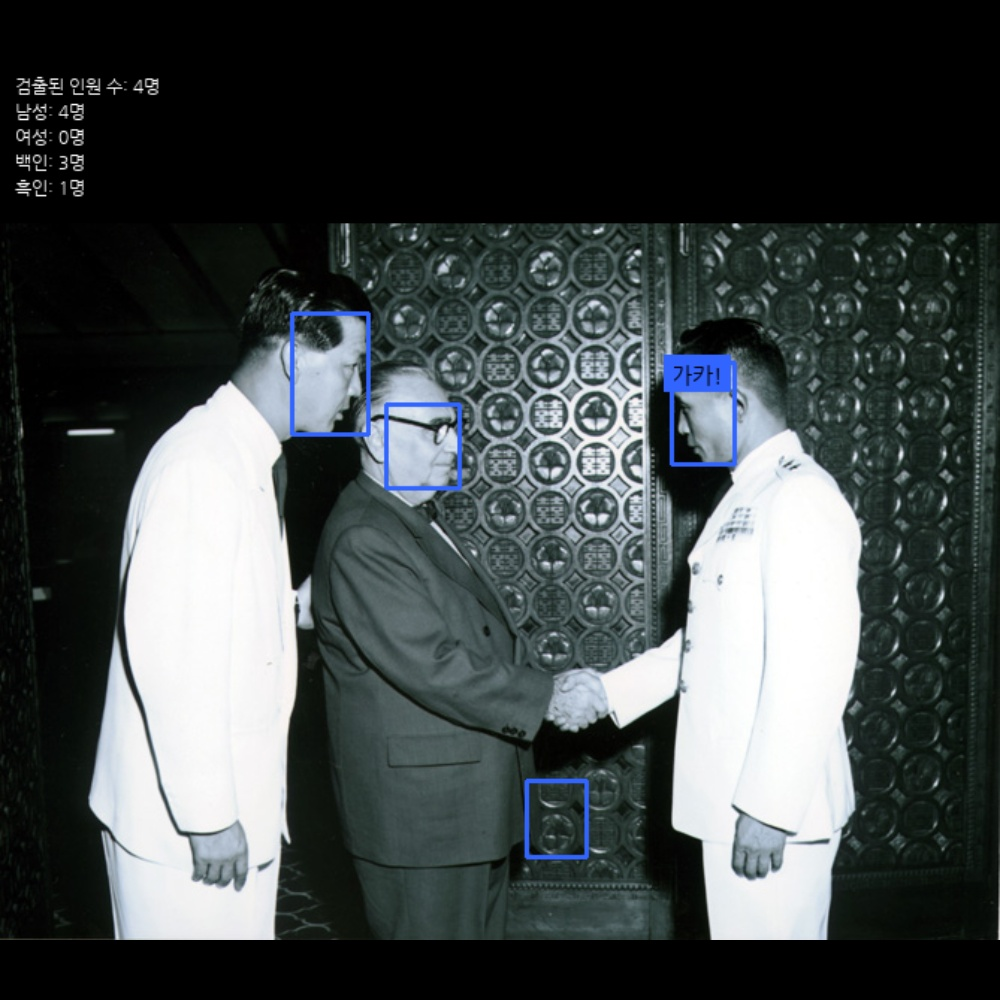
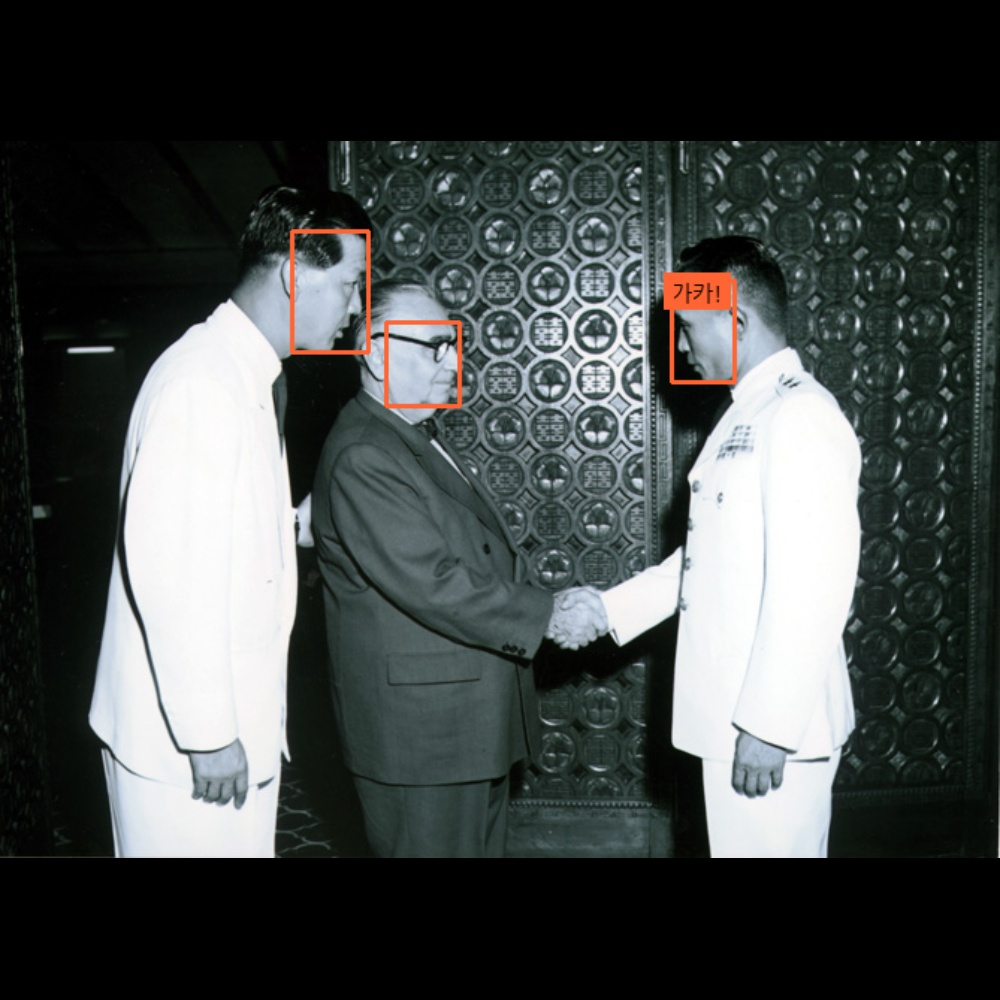
폰트사이즈 능동적

diff --git a/pybo/views/ai.py b/pybo/views/ai.py
@@ -29,6 +29,7 @@ def process_image(image_path, selected_detectors, selected_predictors):
             continue
         detectors.append(factories.FaceDetectorFactory.create(detector, config[f'{detector}']))
     
+    # 예측기(predictors) 생성
     predictors = []
     
     for predictor in selected_predictors:
@@ -39,17 +40,17 @@ def process_image(image_path, selected_detectors, selected_predictors):
         target_encodings = np.array(pickle.load(f))
 
     # 파이프라인 설정
-    pipeline = Pipeline(
-        steps.FaceDetector(detectors),                    
-        steps.FaceEncoder(),                            
-        steps.TargetFaceMatcher(target_encodings),        
-        steps.FacePredictor(predictors),                  
-        steps.FaceInfoCounter(),                      
-        steps.InfoDrawer(),                             
-        steps.InfoWriter(),                            
-        steps.ImageResizer(target_size=1000),             
-        steps.Saver(),                                 
-    )
+    pipeline = Pipeline()
+    pipeline.add(steps.FaceDetector(detectors))                    
+    pipeline.add(steps.FaceEncoder())                           
+    pipeline.add(steps.TargetFaceMatcher(target_encodings))      
+    pipeline.add(steps.FacePredictor(predictors))                
+    pipeline.add(steps.FaceInfoCounter())                     
+    pipeline.add(steps.InfoDrawer())
+    if predictors:                            
+        pipeline.add(steps.InfoWriter(font_size = 30))  
+    # pipeline.add(steps.ImageResizer(target_size=1000))      
+    pipeline.add(steps.Saver())                                 
     
     image_path
     logging.info(f"이미지 처리 시작: {image_path}")

diff --git a/ai_system/annotation/InfoWriter.py b/ai_system/annotation/InfoWriter.py
@@ -3,13 +3,15 @@ from ..core.config import PipelineStep
 from ..core.utils import ImagePipeline
 
 class InfoWriter(PipelineStep):
+    def __init__(self, font_size=12):
+        self.font_size = font_size
 
     def process(self, data):
         config = data.config
         pipeline = ImagePipeline(config)
         image_rgb = data.image_rgb
         count = data.predictions['count']
-        font_size = max(12, int(image_rgb.shape[1] / 200))
+        adaptive_font_size = max(self.font_size, int(image_rgb.shape[1] / 200))
 
         info_text = (
             f"검출된 인원 수: {count['face_cnt']}명\n"
@@ -23,7 +25,7 @@ class InfoWriter(PipelineStep):
         image_rgb = pipeline.extend_image_with_text(
             image=image_rgb,
             text=info_text + race_info,
-            font_size=font_size
+            font_size=adaptive_font_size
         )
         data.image_rgb = image_rgb
         return data
